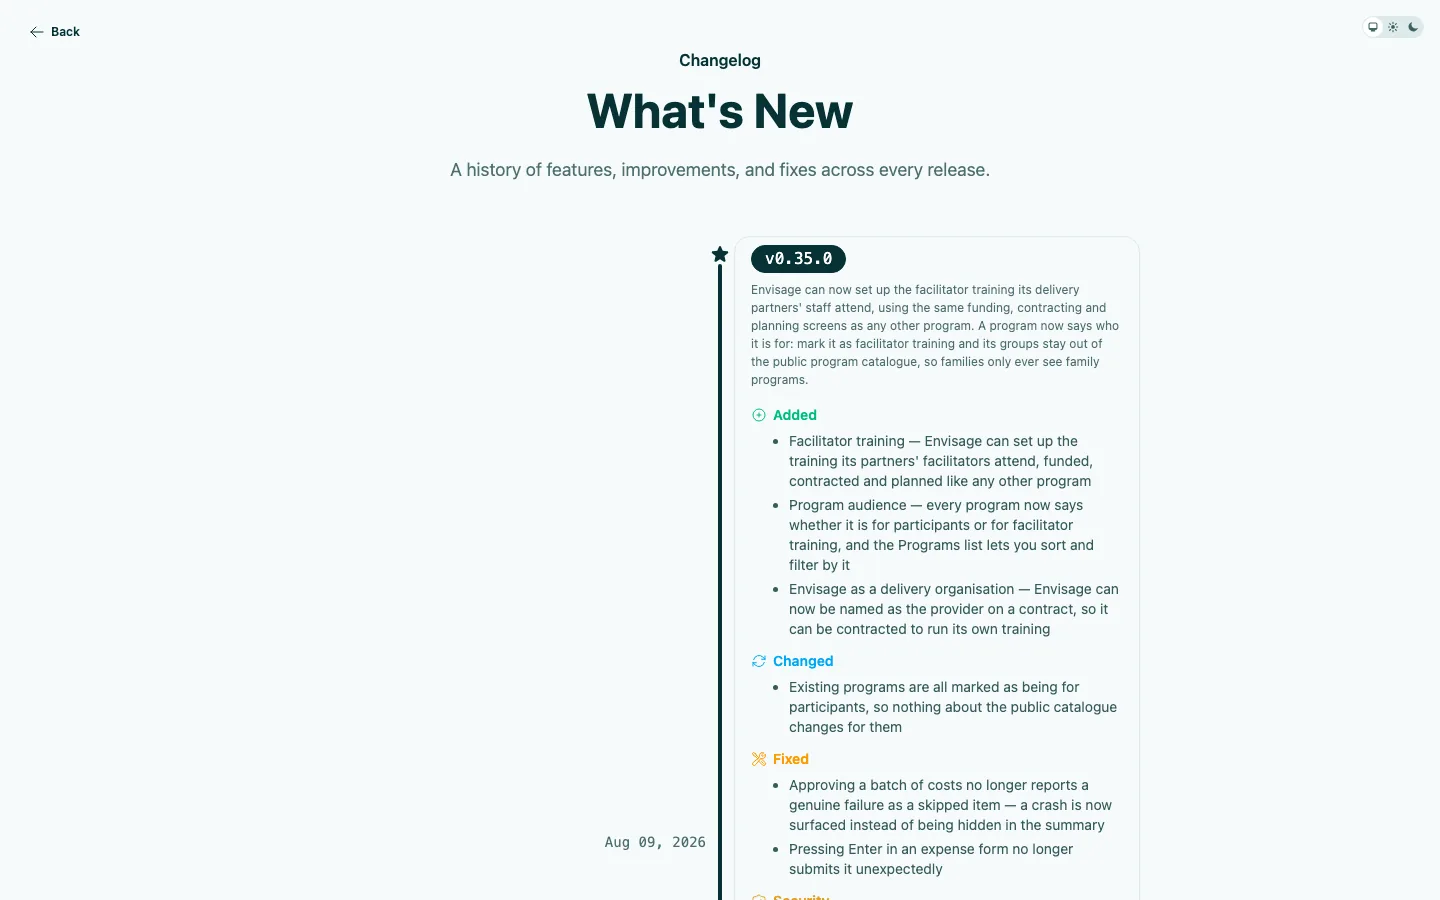
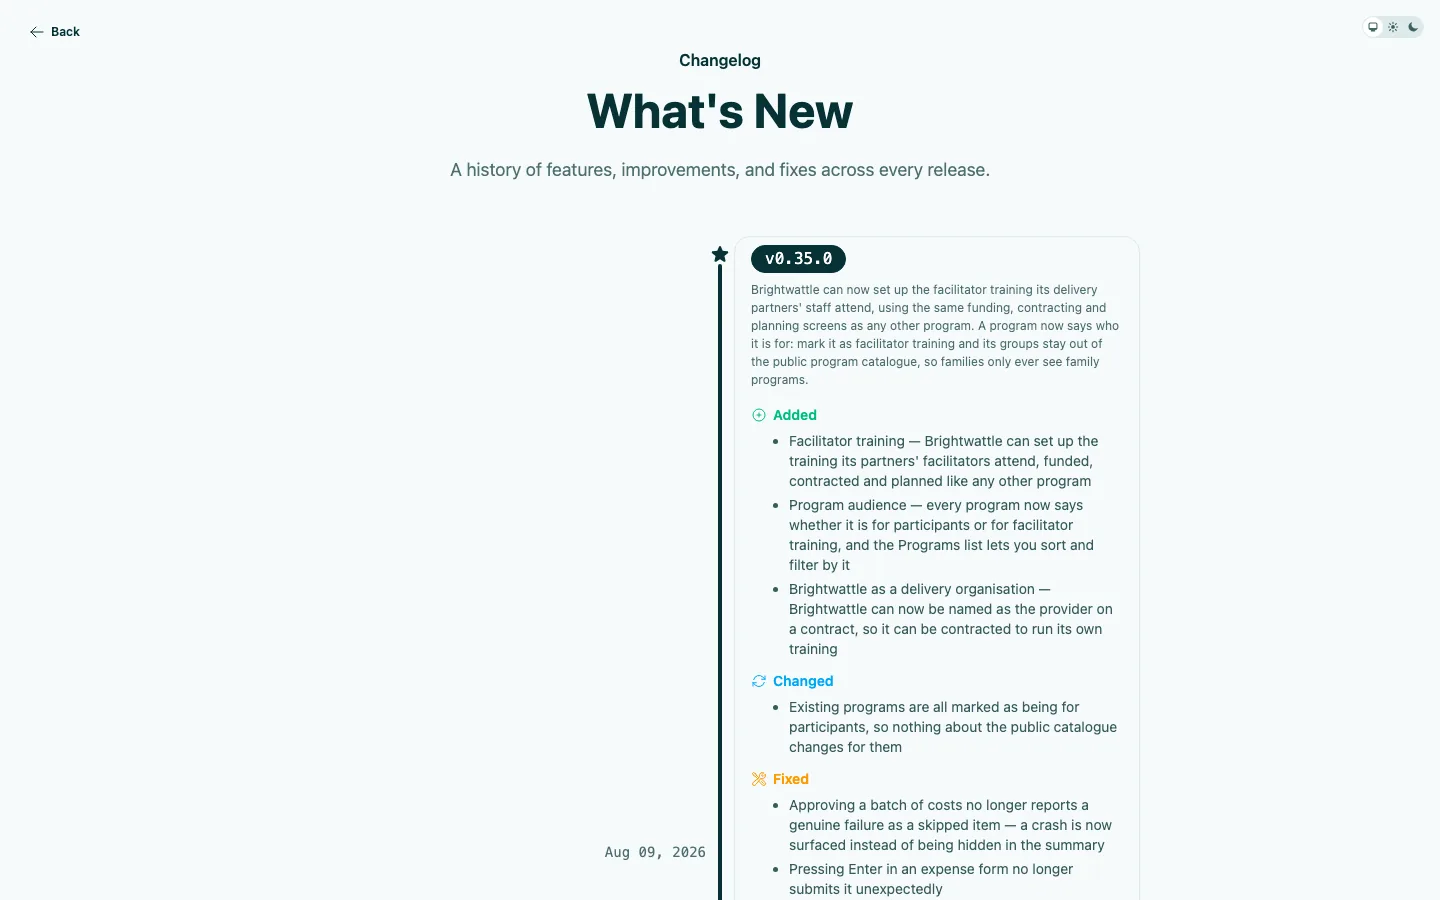
Rename the real org to the demo brand in the lifecycle screenshots
The changelog and the value chain named Envisage, the real
organisation, while every other screenshot on the page shows the
Brightwattle demo brand.

All five lifecycle screenshots are recaptured with the name replaced in
the DOM before the shot: 39 text nodes on the changelog, 5 on the
roadmap. The capture script now checks that no "Envisage" remains in
the rendered page before it takes the picture. The release notes
caption quotes the new name.

Claude-Session: https://claude.ai/code/session_01GRHgrxTbsyCUAR3ZGuYBLK

diff --git a/index.html b/index.html
@@ -1416,7 +1416,7 @@
               <img src="/site/images/platform/changelog.webp" alt="The what's new page inside the application, showing release v0.35.0 with its changes grouped into added, changed, fixed and security" width="1440" height="900" loading="lazy" decoding="async">
             </picture>
           </div>
-          <figcaption class="shot-cap">Every release writes itself up here, grouped into what was added, changed, fixed and secured — in the language of the business, not commit messages. "Envisage can now set up the facilitator training its delivery partners' staff attend." The security entries name the fix and the CVE. Your users read this page. So does your auditor.</figcaption>
+          <figcaption class="shot-cap">Every release writes itself up here, grouped into what was added, changed, fixed and secured — in the language of the business, not commit messages. "Brightwattle can now set up the facilitator training its delivery partners' staff attend." The security entries name the fix and the CVE. Your users read this page. So does your auditor.</figcaption>
         </figure>
       </div>
     </div>
